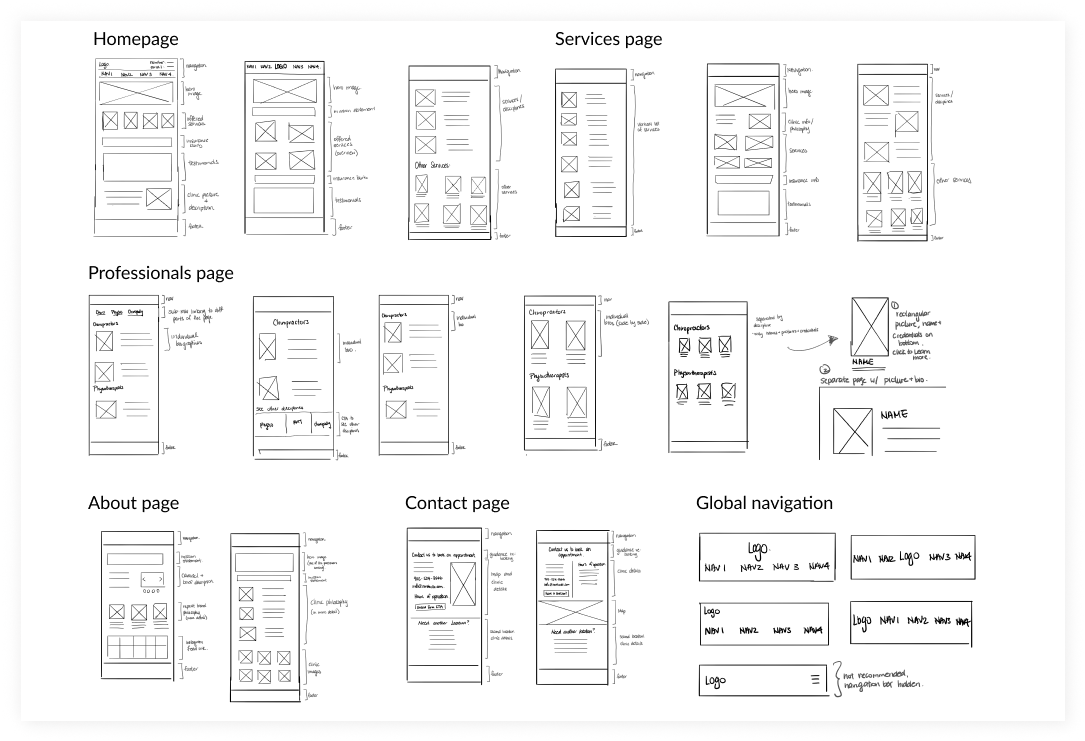
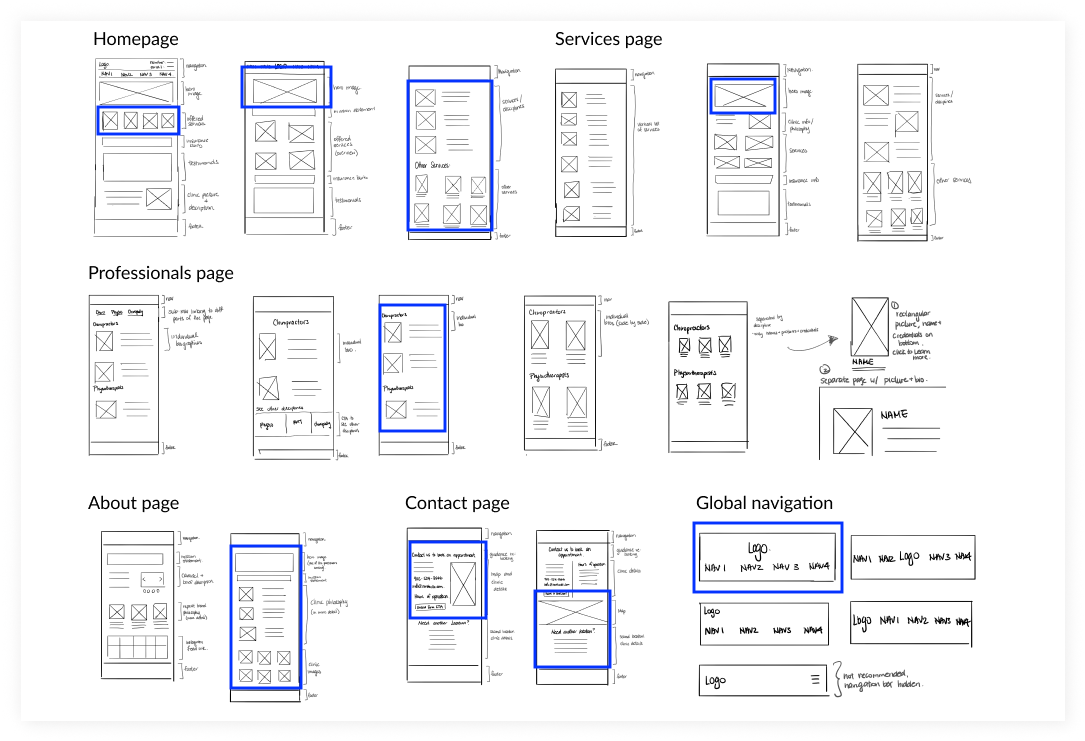
aefaew

diff --git a/northville.html b/northville.html
@@ -56,10 +56,7 @@
 <div class='overview-columns row'>
   <div class='col-md'>
     <h6>Background</h6>
-    <p>Northville Rehabilitation Centre is a multidisciplinary clinic located in Markham, ON. This is the
-second location that the owners have opened, with the first location having been in operation for
-over 30 years. Though word of mouth is currently their primary source of referrals, Northville
-would like to expand their marketing efforts and audience demographic.</p></div>
+    <p>Northville Rehabilitation Centre is a newly opened rehabiliation clinic located in Markham, ON. They would like to expand their audience demographic, but find it difficult through their current source of referrals: word of mouth. The redesign of their website will increase their online presence to market themselves within the local community.</p></div>
   
   <div class='col-md'>
   <h6>Details</h6>
@@ -88,10 +85,10 @@ would like to expand their marketing efforts and audience demographic.</p></div>
 
 <div class='overview-design container-md'>
   <h6>Design Opportunity</h6>
-  <p>As a new and local rehabilitation clinic, Northville’s goal is to increase their number of walk-ins and referrals. With over 55% of millenials researching their healthcare online (and finding it just as reliable as a doctor), Northville hopes to establish its online presence and align its values with this younger demographic and the community.</p>
+  <p>As a new and local rehabilitation clinic, Northville’s goal is to <b>increase their number of walk-ins and referrals.</b> With over 55% of millenials researching their healthcare online (and finding it just as reliable as a doctor), Northville hopes to establish its online presence and align its values with this younger demographic and the community.</p>
 
 <h6 style='margin-top:50px'>Design Solution</h6>
-<p>By creating an educational and responsive website, Northville hopes to capture the younger millenial demographic. Revamped copywriting will help succintly inform website visitors on offered clinic services and their benefits. Coupled with an intuitive informational architecture, website visitors can easily navigate around and make an informed decision about their health.</p></div>
+<p>By creating an educational and responsive website, Northville hopes to capture the younger millenial demographic.<b> Revamped copywriting</b> will help succintly inform website visitors on offered clinic services and their benefits. Coupled with an <b>intuitive informational architecture</b>, website visitors can easily navigate around and make an informed decision about their health.</p></div>
 
 <!-- insert image or video of the final prototype in a device mockup - maybe a gif?  -->
 
@@ -121,10 +118,10 @@ would like to expand their marketing efforts and audience demographic.</p></div>
 <div class='boxed'>
   <div class='section container-md'>
     <h4>Research</h4>
-    <h5>Assessing the impact of different layouts on user behaviours</h5></div>
+    <h5>Identifying thought and behaviour patterns on different layouts</h5></div>
     <div class='columns row'>
       <div class='column-left col-md-6'>
-    <p>Participants navigated three different clinic websites to assess the impact of various layouts on behaviour and thought processes. This also provided the opportunity for people to communicate what factors they considered when choosing a clinic. </p>
+    <p>Participants navigated three different clinic websites to identify common thought and behaviour patterns for navigation. This also helped show what factors people considered important when choosing a clinic.</p>
   </div>
   <div class='column-right col-md-4'>
 <!--     <h6>Details:</h6> -->
@@ -136,13 +133,13 @@ would like to expand their marketing efforts and audience demographic.</p></div>
 <div class='section container-md'>
 <p style='color:#010068'>Tasks given were based on assumptions of patient's most frequently asked questions:</p>
 <ul>
-  <li>What is the differnece between physiotherapy and chiropractic treatment</li>
-  <li>Do you accept private insurance</li>
-  <li>How do I book an appointment</li>
+  <li>What is the difference between physiotherapy and chiropractic treatment?</li>
+  <li>Do you accept private insurance?</li>
+  <li>How do I book an appointment?</li>
 </ul>
 <img class='research img-fluid' src='images/northville/wordcloud.png' alt='Word Cloud'>
 <div class='boxed-nrc'>
-<p>Significant user insights were:</p>
+<p>Significant insights were:</p>
 <ol>
   <li>Keywords are used to navigate text-heavy pages</li>
   <li>Copywriting needs to be understood to be effective</li>
@@ -156,7 +153,8 @@ would like to expand their marketing efforts and audience demographic.</p></div>
 <div class='section container-md'>
   <h4>Empathy Map</h4>
   <h5>Understanding the average user</h5>
-  <p>This represented the average user- someone who has no prior knowledge of any medical or rehabiliation terminology. The empathy map helped remind me of the expectations I was designing for. </p></div>
+  <p>This helped remind me of the expectations for the type of user I was designing for.<br>
+  Average user: someone with no prior knowledge of any medical or rehabiliation terminology</p></div>
 <div class='empathymap'>
   <img class='img-fluid' src='images/northville/empathymap.png' alt='Empathy Map'>
 </div>
@@ -208,7 +206,7 @@ global navigation</li>
 <img class='mob-textbox img-fluid' src='images/northville/mobile/mob-copywriting.svg' alt='Content copywriting'>
 
 <div class='section container-md'>
-<p>I referenced <a href='https://styleguide.mailchimp.com/voice-and-tone/' target='_blank' style='text-decoration: underline'>Mailchimp’s fantastic style guide</a> and wrote out four questions to focus on to ensure the copywriting would be concise and easily digestible.</p>
+<p>I referenced <a href='https://styleguide.mailchimp.com/voice-and-tone/' target='_blank' style='text-decoration: underline'>Mailchimp’s fantastic style guide</a> and focused on answering these questions for a concise and easily digestible copywriting.</p>
 <ol>
   <li>What is the service?</li>
 <li>How do they carry out their treatment?</li>
@@ -226,7 +224,7 @@ global navigation</li>
   <h5>Addressing information architecture assumptions</h5>
   <!-- <div class='columns row'>
   <div class='columns-left col-md'> -->
-  <p>Unfortunately, competitors didn't have consistent architecture patterns, so I asked the users myself through a cardsorting activity. In keeping with the business' goals, it was important to create an intuitive architecture. I wanted to find out where people would look for:</p>
+  <p>In keeping with the business' goals, it was important to create an intuitive architecture. Unfortunately, the competitor analysis didn't show consistent patterns, so I asked the users directly through a cardsorting activity. I wanted to find out where people would look for:</p>
   <ol>
     <li>Clinic details</li>
     <li>Insurance information</li></ol>
@@ -257,7 +255,7 @@ The percentage indicates the number of participants who sorted the card (left) i
 
 <div class='section container-md' style='margin-top:80px'>
   <h6>Low fidelity wireframes</h6>
-  <p>I referenced the original site map and sketched potential options for different pages. During the weekly check-in, the client and I chose what would be the best fit. It was finally time to design!</p>
+  <p>I referenced the original site map and sketched potential options for different pages. During the weekly check-in, the client and I chose elements of what would be the best fit (shown in black boxes). It was finally time to design!</p>
 </div>
   <img class='lofi-frames img-fluid' src='/images/northville/lofi-frames.png' alt='Low Fidelity Sketches'> 
 

diff --git a/css/northville.css b/css/northville.css
@@ -91,7 +91,7 @@ figcaption{
   margin-bottom:10px;
   font-family: 'Lato', sans-serif;
   font-size: 12px;
-  margin-left:250px;
+  /*margin-left:250px;*/
 }
 
 .cardSort-details{
@@ -247,8 +247,7 @@ margin-left:269px;
 
 .boxed-nrc{
   background-color:#010068;
-
-  padding:10px;
+  padding:15px;
 }
 
 .boxed-nrc p{
